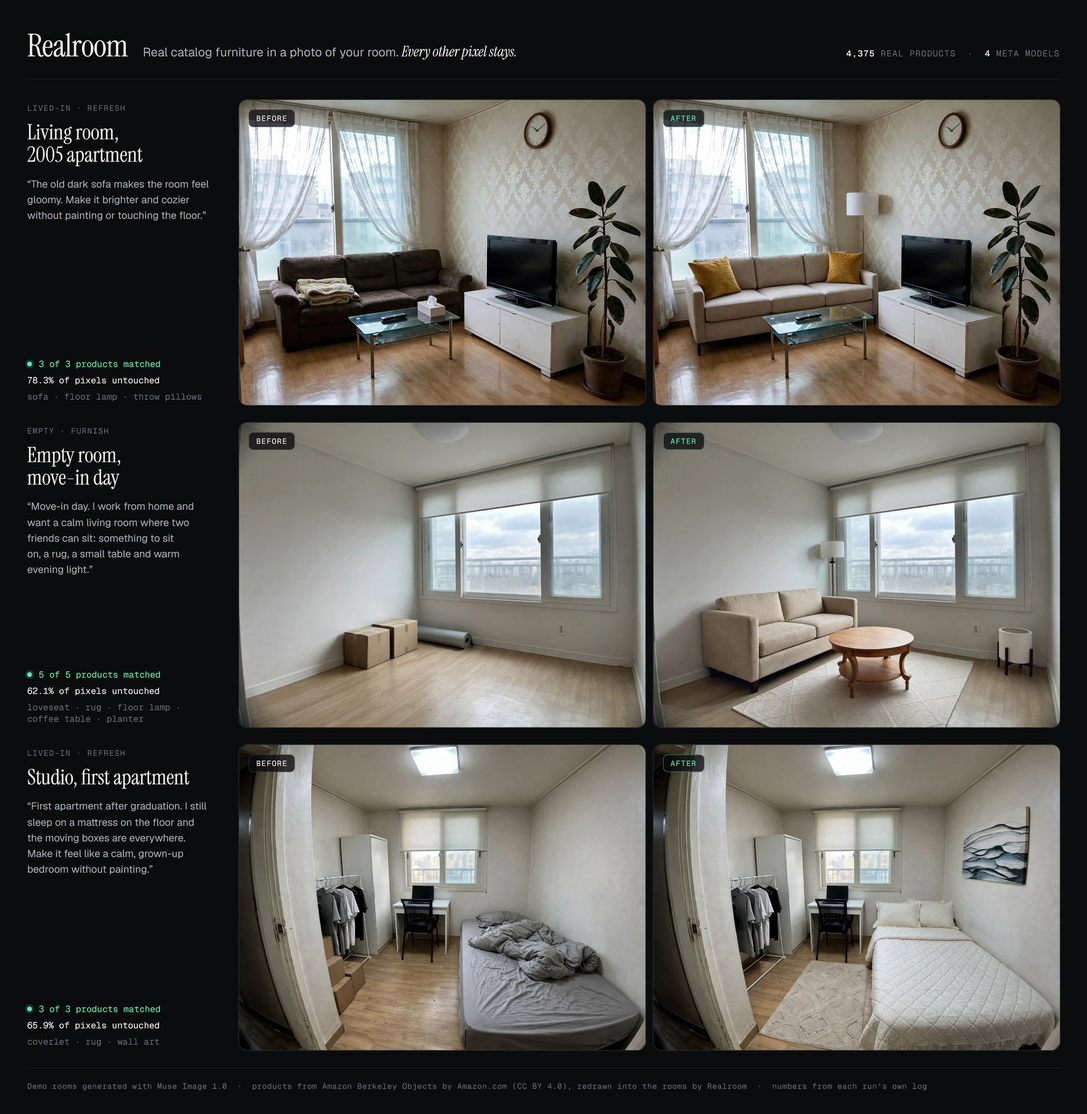
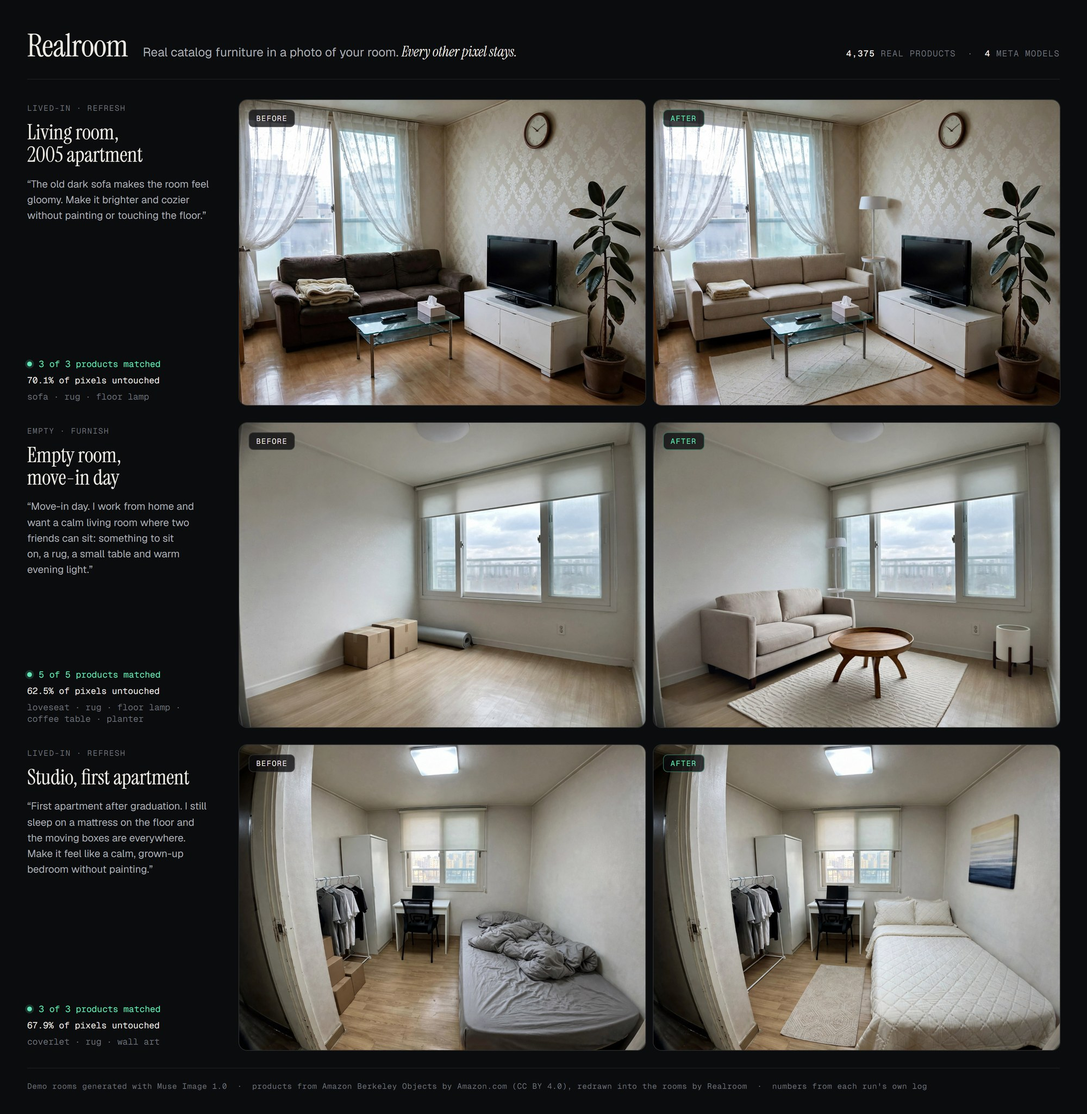
Clip verify crops to the judged region, README numbers for the new runs
A product crop in the verify step now shows only the region Spark judged.
Before, letterboxing let the rest of the photo show around a wide crop such
as a rug. Spark's issues read as separate sentences.

The README table, the drift range, the verify paragraph and both images now
describe the recorded runs in demo-runs/, and the README links the hosted
version.

Claude-Session: https://claude.ai/code/session_01Ch8kRbmBW2B7JRfHdd7mSz

diff --git a/web/src/components/Inspector.tsx b/web/src/components/Inspector.tsx
@@ -458,7 +458,7 @@ export function VerifyPanel({ run, events, focus, setFocus }: PanelProps) {
                       {i + 1}. {p.title}
                     </div>
                     {v && <VerdictChip v={v} />}
-                    {!!v?.issues?.length && <p className="faint pair-issues">{v.issues.join(" ")}</p>}
+                    {!!v?.issues?.length && <p className="faint pair-issues">{v.issues.map(asSentence).join(" ")}</p>}
                   </div>
                 </div>
               );
@@ -469,6 +469,12 @@ export function VerifyPanel({ run, events, focus, setFocus }: PanelProps) {
       {chosen?.judge.scene && <SceneScores s={chosen.judge.scene} />}
     </>
   );
+}
+
+/** Spark lists issues as bare phrases; show each as a sentence so they do not run together. */
+function asSentence(s: string): string {
+  const t = s.trim().replace(/[.;,]+$/, "");
+  return t ? t.charAt(0).toUpperCase() + t.slice(1) + "." : "";
 }
 
 function SceneScores({ s, title = "Whole photo" }: { s: NonNullable<Run["result"]>["scene"]; title?: string }) {

diff --git a/web/src/components/BoxCrop.tsx b/web/src/components/BoxCrop.tsx
@@ -11,9 +11,14 @@ export function BoxCrop({ src, box, w, h, label }: { src: string; box: Box; w: n
   const cy = Math.max(0, y1 - my);
   const cw = Math.min(w, x2 + mx) - cx;
   const ch = Math.min(h, y2 + my) - cy;
+  const vb = `${cx} ${cy} ${cw} ${ch}`;
+  // the inner svg clips to the crop, so the bands that letterboxing leaves stay empty
+  // instead of showing the rest of the photo
   return (
-    <svg className="box-crop" viewBox={`${cx} ${cy} ${cw} ${ch}`} preserveAspectRatio="xMidYMid meet" role="img" aria-label={label}>
-      <image href={src} x={0} y={0} width={w} height={h} />
+    <svg className="box-crop" viewBox={vb} preserveAspectRatio="xMidYMid meet" role="img" aria-label={label}>
+      <svg x={cx} y={cy} width={cw} height={ch} viewBox={vb} overflow="hidden">
+        <image href={src} x={0} y={0} width={w} height={h} />
+      </svg>
     </svg>
   );
 }

diff --git a/README.md b/README.md
@@ -6,7 +6,7 @@ Real catalog furniture in a photo of your own room, with every other pixel left 
 
 Realroom is an agent built on Meta's models. You give it a room photo and one sentence about what you want. It reads the room, plans what to add or replace, searches 4,375 real products for pieces that fit the space, and renders them into the photo. Then it checks its own work. SAM 3.1 finds each product again in the render, Muse Spark 1.3 compares it with the product's catalog photo, and anything that came out wrong is redrawn. Only the new products, their shadows and the spots that were cleared come from the image model. Everything else is copied back from your original photo, and the page lets you verify that count in your own browser.
 
-Built for the 27 Meta Global AI Developer Hackathon (2026).
+Built for the 27 Meta Global AI Developer Hackathon (2026). Try it at [chanjoongx--realroom.us-east.modal.run](https://chanjoongx--realroom.us-east.modal.run). The demo rooms replay recorded runs, and the upload box runs the whole agent on your own photo.
 
 ## Why
 
@@ -18,9 +18,9 @@ The demo rooms were generated with Muse Image 1.0, so this repository holds no p
 
 | Room | Brief | Products | Matched | Untouched pixels | Time | Cost |
 |---|---|---|---|---|---|---|
-| Living room, 2005 apartment | "The old dark sofa makes the room feel gloomy. Make it brighter and cozier without painting or touching the floor." | sofa, floor lamp, throw pillows | 3 of 3 | 78.3% | 157 s | $0.19 |
-| Empty room, move-in day | "Move-in day. I work from home and want a calm living room where two friends can sit: something to sit on, a rug, a small table and warm evening light." | loveseat, rug, floor lamp, coffee table, planter | 5 of 5, the rug after one round of redraws | 62.1% | 165 s | $0.24 |
-| Studio, first apartment | "...I still sleep on a mattress on the floor and the moving boxes are everywhere. Make it feel like a calm, grown-up bedroom without painting." | coverlet, rug, wall art | 3 of 3 | 65.9% | 156 s | $0.19 |
+| Living room, 2005 apartment | "The old dark sofa makes the room feel gloomy. Make it brighter and cozier without painting or touching the floor." | sofa, rug, floor lamp | 3 of 3, the rug after one round of redraws | 70.1% | 206 s | $0.25 |
+| Empty room, move-in day | "Move-in day. I work from home and want a calm living room where two friends can sit: something to sit on, a rug, a small table and warm evening light." | loveseat, rug, floor lamp, coffee table, planter | 5 of 5, the coffee table after one round of redraws | 62.5% | 203 s | $0.27 |
+| Studio, first apartment | "...I still sleep on a mattress on the floor and the moving boxes are everywhere. Make it feel like a calm, grown-up bedroom without painting." | coverlet, rug, wall art | 3 of 3 | 67.9% | 150 s | $0.18 |
 
 "Matched" is Muse Spark 1.3's verdict on a close crop of each rendered product next to its catalog photo. Costs are estimates from Meta's published prices, logged per call.
 
@@ -38,22 +38,22 @@ The demo rooms were generated with Muse Image 1.0, so this repository holds no p
 
 The web app replays each run from its event log: the scan with every outline, the search funnel, the pick sheets, all render candidates, each fix with its before and after, and the final layers.
 
-![The verify step of the move-in run](docs/verify.jpg)
+![The verify step of the living-room run](docs/verify.jpg)
 
-Above is the verify step of the move-in run. Muse Image drew three candidates, Spark scored all five products in each, and candidate 3 was kept. Its rug scored 5 of 10, so it went on to the fix step and came back at 9.
+Above is the verify step of the living-room run. Muse Image drew three candidates, Spark scored all three products in each, and candidate 1 was kept. Its rug scored 4 of 10, so it went on to the fix step and came back at 9.
 
 ## What you can check
 
 - `before.png` and `after.png` are lossless. In the app, **Check it yourself** downloads both and compares them pixel by pixel in your browser, then shows the share that is identical.
 - `layers.png` colors every changed pixel as product, cleared or shadow. `masks.npz` holds every object and product mask.
 - `ledger.jsonl` lists every model call with its time and estimated cost.
-- `drift.jpg` shows how far the raw render drifted from the original everywhere else (mean color difference dE 1.6 to 2.6 on the demo runs). Those pixels are the reason for the composite step.
+- `drift.jpg` shows how far the raw render drifted from the original everywhere else (mean color difference dE 1.8 to 2.1 on the demo runs). Those pixels are the reason for the composite step.
 
 ## The catalog
 
 [Amazon Berkeley Objects](https://amazon-berkeley-objects.s3.us-east-1.amazonaws.com/index.html) (ABO) is a public dataset of real Amazon product listings with photos and dimensions. `catalog/` builds the Realroom catalog from it:
 
-1. `abo_catalog.py` sorts amazon.com listings into 25 kinds (sofa, rug, floor lamp, wall art and so on), which matches 5,931 of them. It converts sizes to centimetres and drops listings with no dimensions or implausible ones, leaving 4,612 candidates.
+1. `abo_catalog.py` sorts amazon.com listings into 25 kinds (sofa, rug, floor lamp, wall art and so on), which matches 5,931 of them. It converts sizes to centimeters and drops listings with no dimensions or implausible ones, leaving 4,612 candidates.
 2. `modal_catalog.py --step score` and `abo_choose.py` pick one reference photo per product, preferring a clean cutout on white.
 3. `modal_catalog.py --step fetch` downloads that photo once, in Modal's cloud, and trims it.
 4. `modal_catalog.py --step tag` sends every photo with its listing to **Muse Spark Open**, Meta's open-weight model, served by Baseten (Fireworks as fallback). It returns a title, colors, materials, style, a visual description, a SAM phrase, a render-risk guess, and whether the photo really shows the listed product.
